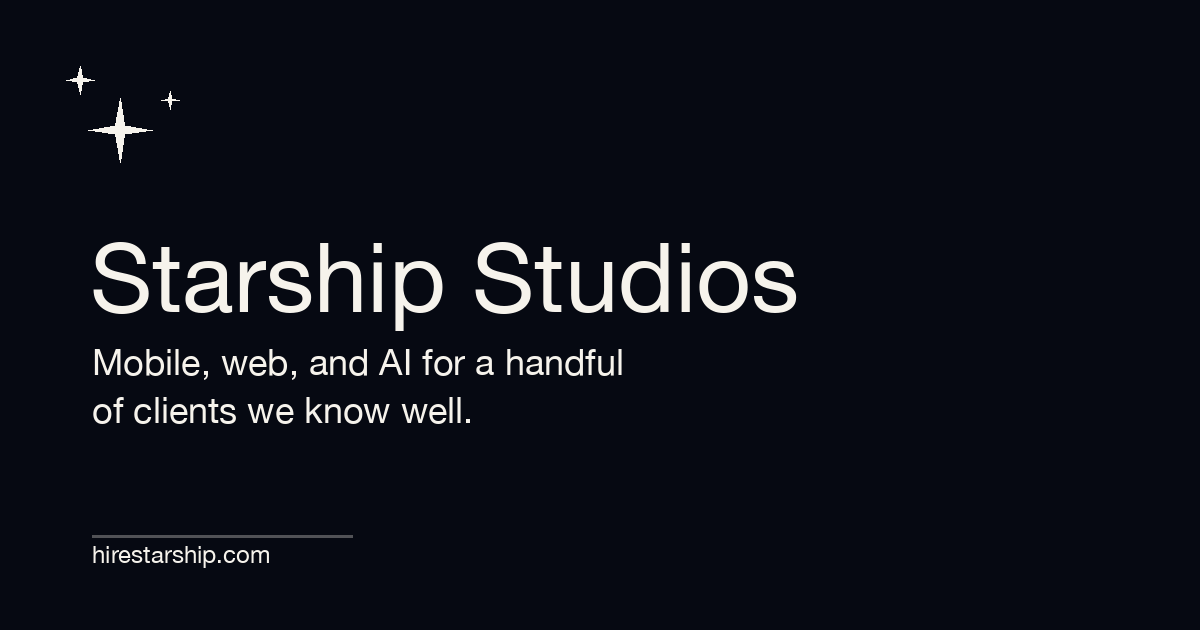
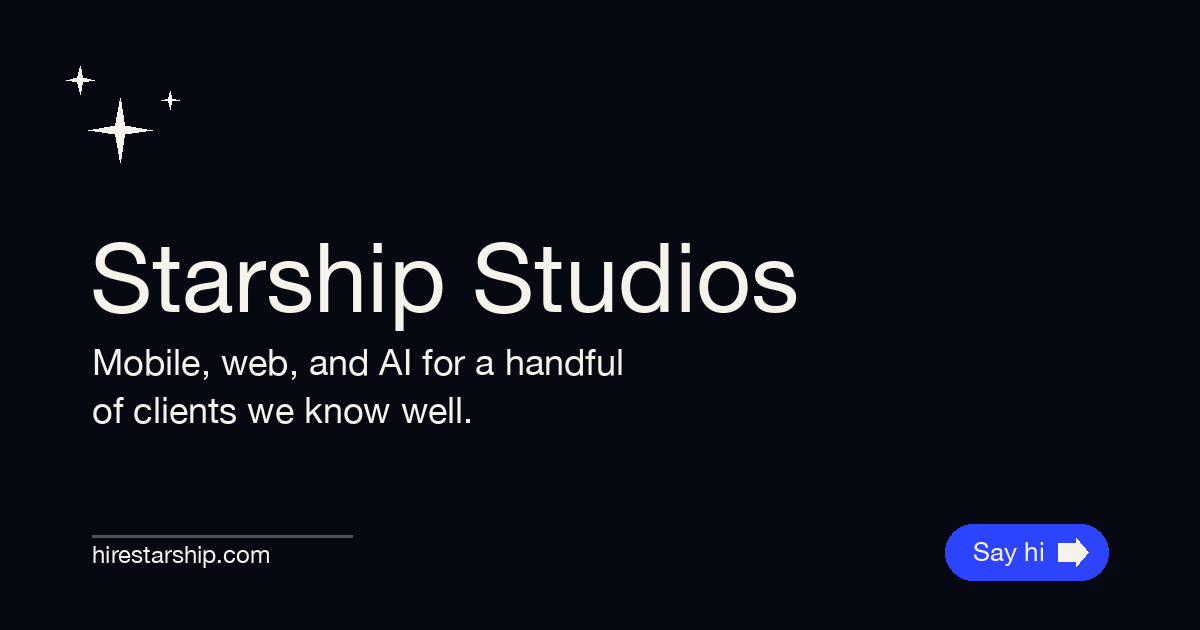
Polish OG card per validator feedback
- OG image gets a "Say hi" CTA pill (matches the FAB).
- Title bumped 38 -> 55 chars: "Mobile, web, and AI integration work".
- Description bumped 100 -> 124 chars with "Based in Washington, DC."

Changed region(s): [[0.7708, 0.8143, 0.925, 0.9349]]

diff --git a/index.html b/index.html
@@ -3,23 +3,23 @@
 <head>
   <meta charset="utf-8" />
   <meta name="viewport" content="width=device-width, initial-scale=1" />
-  <title>Starship Studios — Mobile, web, and AI</title>
-  <meta name="description" content="A small studio building mobile apps, web, and AI integrations for a handful of clients we know well." />
+  <title>Starship Studios — Mobile, web, and AI integration work</title>
+  <meta name="description" content="A small studio building mobile apps, web, and AI integrations for a handful of clients we know well. Based in Washington, DC." />
 
   <!-- Open Graph (used by iMessage, Slack, Facebook, LinkedIn) -->
   <meta property="og:type" content="website" />
   <meta property="og:site_name" content="Starship Studios" />
   <meta property="og:url" content="https://hirestarship.com" />
-  <meta property="og:title" content="Starship Studios — Mobile, web, and AI" />
-  <meta property="og:description" content="A small studio building mobile apps, web, and AI integrations for a handful of clients we know well." />
+  <meta property="og:title" content="Starship Studios — Mobile, web, and AI integration work" />
+  <meta property="og:description" content="A small studio building mobile apps, web, and AI integrations for a handful of clients we know well. Based in Washington, DC." />
   <meta property="og:image" content="https://hirestarship.com/og-image.png" />
   <meta property="og:image:width" content="1200" />
   <meta property="og:image:height" content="630" />
 
   <!-- Twitter / X -->
   <meta name="twitter:card" content="summary_large_image" />
-  <meta name="twitter:title" content="Starship Studios — Mobile, web, and AI" />
-  <meta name="twitter:description" content="A small studio building mobile apps, web, and AI integrations for a handful of clients we know well." />
+  <meta name="twitter:title" content="Starship Studios — Mobile, web, and AI integration work" />
+  <meta name="twitter:description" content="A small studio building mobile apps, web, and AI integrations for a handful of clients we know well. Based in Washington, DC." />
   <meta name="twitter:image" content="https://hirestarship.com/og-image.png" />
 
   <link rel="icon" type="image/svg+xml" href="favicon.svg" />